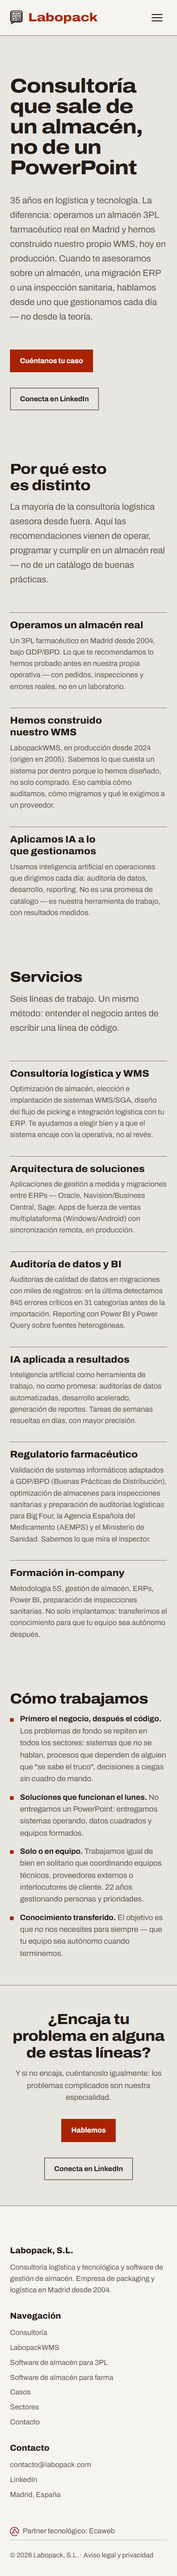
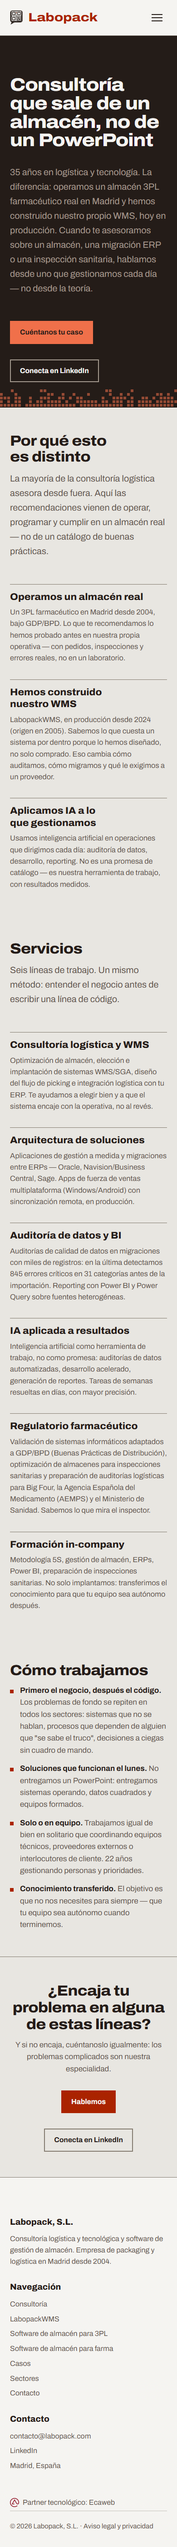
Pase de composicion: la pagina tenia el esqueleto de siempre
Hasta aqui el redisenno habia hecho el trabajo negativo (quitar emojis,
degradados, sombras, mayusculas espaciadas) y casi nada del positivo. El brief
pedia "componer cada bloque segun su contenido" y lo que habia era la misma
reticula de antes sin la caja de las tarjetas. El revisor independiente lo dijo
y sus objeciones de composicion se clasificaron como criterio y se dejaron
pasar. Eran el problema.

- El hero pasa a banda oscura a sangre sobre --tinta, en las 10 paginas. Es el
  unico momento con peso; da la apertura y el contraste que faltaban.
- Las cifras entran en la banda, en --papel y no en acento, y cierran con la
  matriz de modulos del logo a escala: el mundo de la etiqueta y el escaner,
  que es el negocio. Hasta ahora ese motivo solo vivia en un icono de 29px.
- Las dos vias dejan el 50/50: 5fr/7fr y superficie elevada en LabopackWMS,
  porque una es un servicio y la otra el producto.
- Las tres razones pasan de tres columnas de aire a banda densa sobre --papel.
- La cita deja de ser una linea mas y se compone como segundo momento.

Tokens nuevos de superficie oscura. --brasa (#F0704A, la parada alta del logo)
es el acento SOLO sobre oscuro: --teja sobre --tinta da 2.35 y el boton no se
distinguiria del fondo.

Dos fallos propios encontrados al verificar, los dos de especificidad:
- El boton del hero quedaba a 2.35 de contraste de objeto sobre la banda.
- .vias .grid.cols-2 (0,3,0) ganaba a la regla de movil .grid.cols-2 (0,2,0):
[…]

diff --git a/assets/styles.css b/assets/styles.css
@@ -21,6 +21,8 @@
   --linea: #C6C2BA;
   --linea-fuerte: #847C70;
   --teja: #AA2300;
+  --sobre-ink: #A49A8F;    /* texto secundario sobre la banda oscura */
+  --brasa: #F0704A;        /* acento SOLO sobre oscuro: 5.68 sobre --tinta */
 
   /* Espaciado: múltiplos de 4 con saltos deliberados. */
   --e1: 4px;  --e2: 8px;   --e3: 14px;  --e4: 22px;
@@ -160,6 +162,21 @@ img { max-width: 100%; height: auto; }
   color: var(--tinta);
   border-color: var(--linea-fuerte);
 }
+/* Sobre la banda oscura el acento es --brasa, la parada alta del logo. --teja
+   sobre --tinta da 2.35: el boton no se distinguiria del fondo. Es el mismo
+   acento de marca, en la version que esa superficie admite. */
+.hero .btn {
+  background: var(--brasa);
+  border-color: var(--brasa);
+  color: var(--tinta);
+}
+.hero .btn:hover { background: var(--papel); border-color: var(--papel); }
+.hero .btn.ghost { background: transparent; color: var(--papel); border-color: var(--sobre-ink); }
+.hero .btn.ghost:hover { color: var(--brasa); border-color: var(--brasa); }
+
+/* Las migas viven dentro de la banda oscura. */
+.hero .breadcrumb, .hero .breadcrumb a { color: var(--sobre-ink); }
+.hero .breadcrumb a:hover { color: var(--brasa); }
 .btn.ghost:hover { background: transparent; border-color: var(--teja); color: var(--teja); }
 
 /* El enlace de acción se marca con subrayado, no con un carácter. */
@@ -184,10 +201,28 @@ img { max-width: 100%; height: auto; }
 
 /* ---------- Hero ---------- */
 
-.hero { padding: var(--e8) 0 var(--e6); }
+/* El hero y las cifras forman una sola banda oscura a sangre. Es el unico
+   momento con peso de la pagina; todo lo que viene despues calla. */
+.hero {
+  background: var(--tinta);
+  color: var(--papel);
+  padding: var(--e8) 0 var(--e7);
+  position: relative;
+}
+/* La matriz cierra la banda oscura. En la home la banda sigue con las cifras,
+   asi que alli la cierran ellas y aqui estorba. */
+.hero::after {
+  content: "";
+  position: absolute;
+  left: 0; right: 0; bottom: 0;
+  height: 40px;
+  background: url(/assets/matriz.svg) repeat-x left bottom / auto 40px;
+  opacity: 0.55;
+}
+.hero:has(+ section.cifras)::after { display: none; }
 
 .hero h1 {
-  font-size: clamp(2.6rem, 6.2vw, 4.5rem);
+  font-size: clamp(2.35rem, 7.4vw, 5.4rem);
   font-variation-settings: "wdth" 114;
   line-height: 1.02;
   letter-spacing: -0.025em;
@@ -198,7 +233,7 @@ img { max-width: 100%; height: auto; }
 .hero .lead {
   font-size: 1.16rem;
   line-height: 1.62;
-  color: var(--grafito);
+  color: var(--sobre-ink);
   max-width: 60ch;
   margin-bottom: var(--e6);
 }
@@ -206,7 +241,7 @@ img { max-width: 100%; height: auto; }
 /* ---------- Cifras: lista medida, alineada por la derecha ---------- */
 
 .stats {
-  border-top: 3px solid var(--tinta);
+  border-top: 1px solid var(--sobre-ink);
   list-style: none;
   margin: 0;
   padding: 0;
@@ -217,7 +252,7 @@ img { max-width: 100%; height: auto; }
   gap: clamp(var(--e4), 4vw, var(--e6));
   align-items: baseline;
   padding: var(--e4) 0;
-  border-bottom: 1px solid var(--linea);
+  border-bottom: 1px solid rgba(245, 244, 241, 0.16);
 }
 .stat .num {
   font-size: clamp(2rem, 4.4vw, 3.1rem);
@@ -225,16 +260,32 @@ img { max-width: 100%; height: auto; }
   font-variation-settings: "wdth" 108;
   letter-spacing: -0.03em;
   line-height: 1;
-  color: var(--teja);
+  color: var(--papel);
   text-align: right;
   font-variant-numeric: tabular-nums;
 }
-.stat .label { color: var(--grafito); max-width: 48ch; }
+.stat .label { color: var(--sobre-ink); max-width: 48ch; }
 
 /* ---------- Secciones ---------- */
 
 section { padding: var(--e7) 0; }
-section.cifras { padding-top: 0; }
+section.cifras {
+  background: var(--tinta);
+  color: var(--papel);
+  padding-top: 0;
+  padding-bottom: var(--e7);
+  position: relative;
+}
+/* La matriz de modulos del logo, a escala, cerrando la banda. Es la marca
+   misma: el mundo de la etiqueta y el escaner, que es el negocio. */
+section.cifras::after {
+  content: "";
+  position: absolute;
+  left: 0; right: 0; bottom: 0;
+  height: 40px;
+  background: url(/assets/matriz.svg) repeat-x left bottom / auto 40px;
+  opacity: 0.55;
+}
 
 .section-title {
   font-size: clamp(1.9rem, 3.4vw, 2.6rem);
@@ -283,6 +334,53 @@ section.cifras { padding-top: 0; }
   color: var(--grafito);
 }
 .partner-inline img { width: 24px; height: 24px; }
+
+/* ---------- Las dos vias: no son equivalentes, no van al 50/50 ----------
+   La consultoria es un servicio; LabopackWMS es el producto y la pagina a la
+   que se quiere llevar. El reparto 5/7 y la superficie lo dicen sin texto.
+   ------------------------------------------------------------------------- */
+
+.vias .grid.cols-2 {
+  grid-template-columns: 5fr 7fr;
+  gap: var(--e7);
+  align-items: start;
+}
+.vias .path-card:last-child {
+  background: var(--papel);
+  padding: var(--e5);
+  border-top-width: 5px;
+}
+
+/* ---------- Las tres razones: banda densa, no tres columnas de aire ---------- */
+
+.razones {
+  background: var(--papel);
+  border-top: 1px solid var(--linea-fuerte);
+  border-bottom: 1px solid var(--linea-fuerte);
+}
+.razones .grid.cols-3 { gap: var(--e5); }
+.razones .card { border-top-color: var(--teja); border-top-width: 3px; }
+.razones .card h3 { font-size: 1.35rem; }
+
+/* ---------- La cita: el segundo momento, no una linea mas ---------- */
+
+.cita .claim {
+  border-left: 0;
+  padding-left: 0;
+  font-size: clamp(1.6rem, 3.4vw, 2.5rem);
+  font-weight: 700;
+  font-variation-settings: "wdth" 104;
+  line-height: 1.22;
+  letter-spacing: -0.02em;
+  max-width: 24ch;
+}
+.cita .claim .who {
+  display: block;
+  width: fit-content;
+  margin-top: var(--e5);
+  padding-top: var(--e3);
+  border-top: 3px solid var(--teja);
+}
 
 /* ---------- Tarjetas: sin caja, separadas por una regla ---------- */
 
@@ -718,7 +816,12 @@ section.cifras { padding-top: 0; }
 
   section { padding: var(--e6) 0; }
 
-  .grid.cols-2, .grid.cols-3 { grid-template-columns: 1fr; }
+  /* La especificidad no sube por estar dentro de un @media: hay que igualar
+     o superar la del selector que se quiere pisar. */
+  .grid.cols-2, .grid.cols-3,
+  .vias .grid.cols-2 { grid-template-columns: 1fr; }
+  .vias .grid.cols-2 { gap: var(--e5); }
+  .vias .path-card:last-child { padding: var(--e4); }
   .grid { gap: var(--e5); }
   .footer-grid { grid-template-columns: 1fr; gap: var(--e5); }
 

diff --git a/index.html b/index.html
@@ -95,7 +95,7 @@
     </div>
   </section>
 
-  <section>
+  <section class="vias">
     <div class="container">
       <h2 class="section-title">Dos formas de ayudarte</h2>
       <p class="section-sub">Según lo que necesite tu operativa: experiencia externa para resolver un problema concreto, o un sistema completo para gestionar tu almacén.</p>
@@ -126,7 +126,7 @@
     </div>
   </section>
 
-  <section>
+  <section class="razones">
     <div class="container">
       <h2 class="section-title">Por qué Labopack</h2>
       <p class="section-sub">La mayoría de las consultoras te asesoran. Nosotros, además, operamos.</p>
@@ -147,7 +147,7 @@
     </div>
   </section>
 
-  <section>
+  <section class="cita">
     <div class="container">
       <blockquote class="claim">
         “Hay dos tipos de profesionales tecnológicos: los que saben programar y los que
